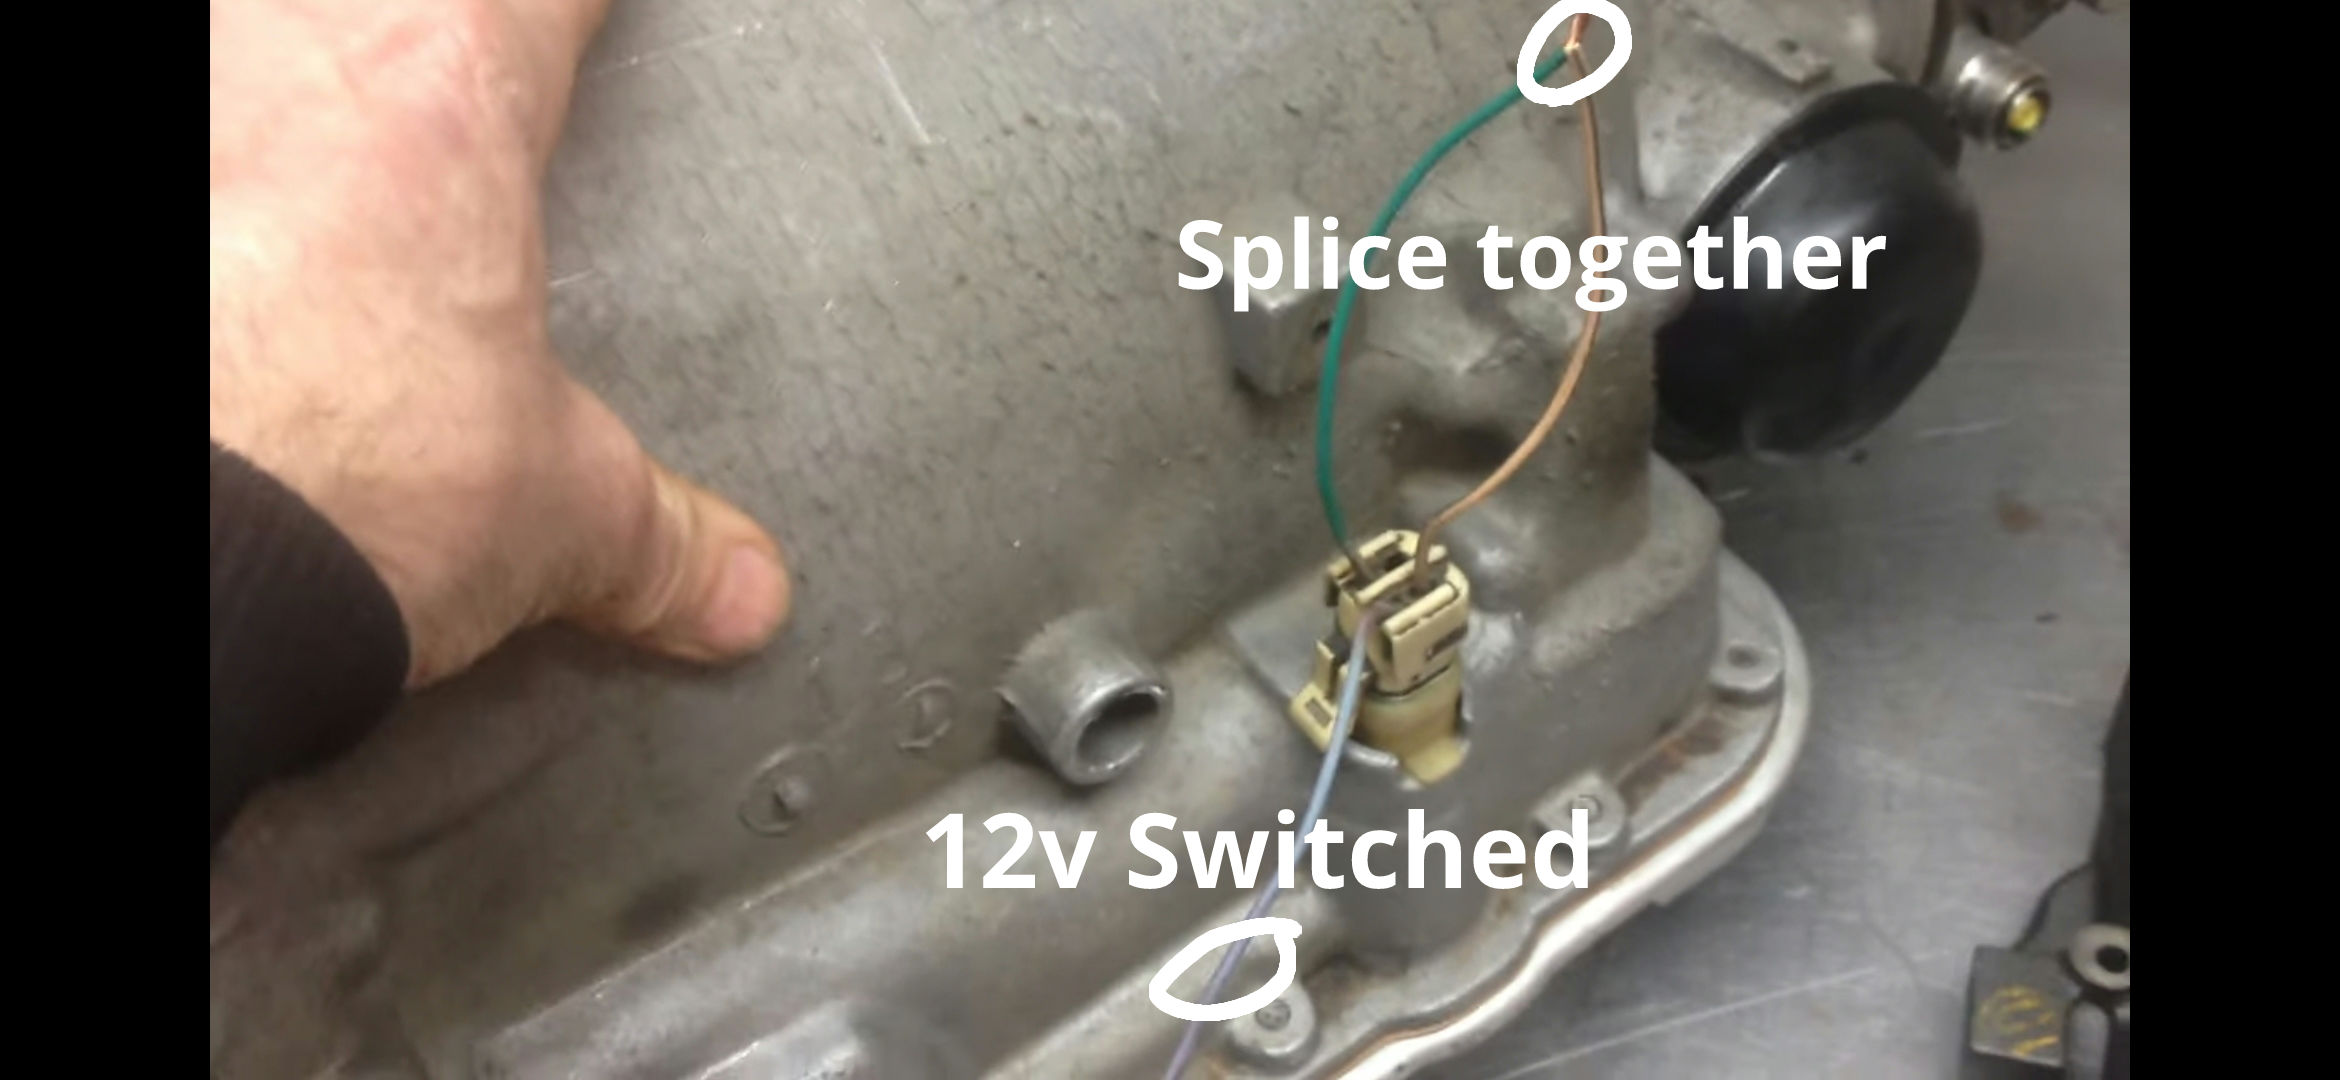
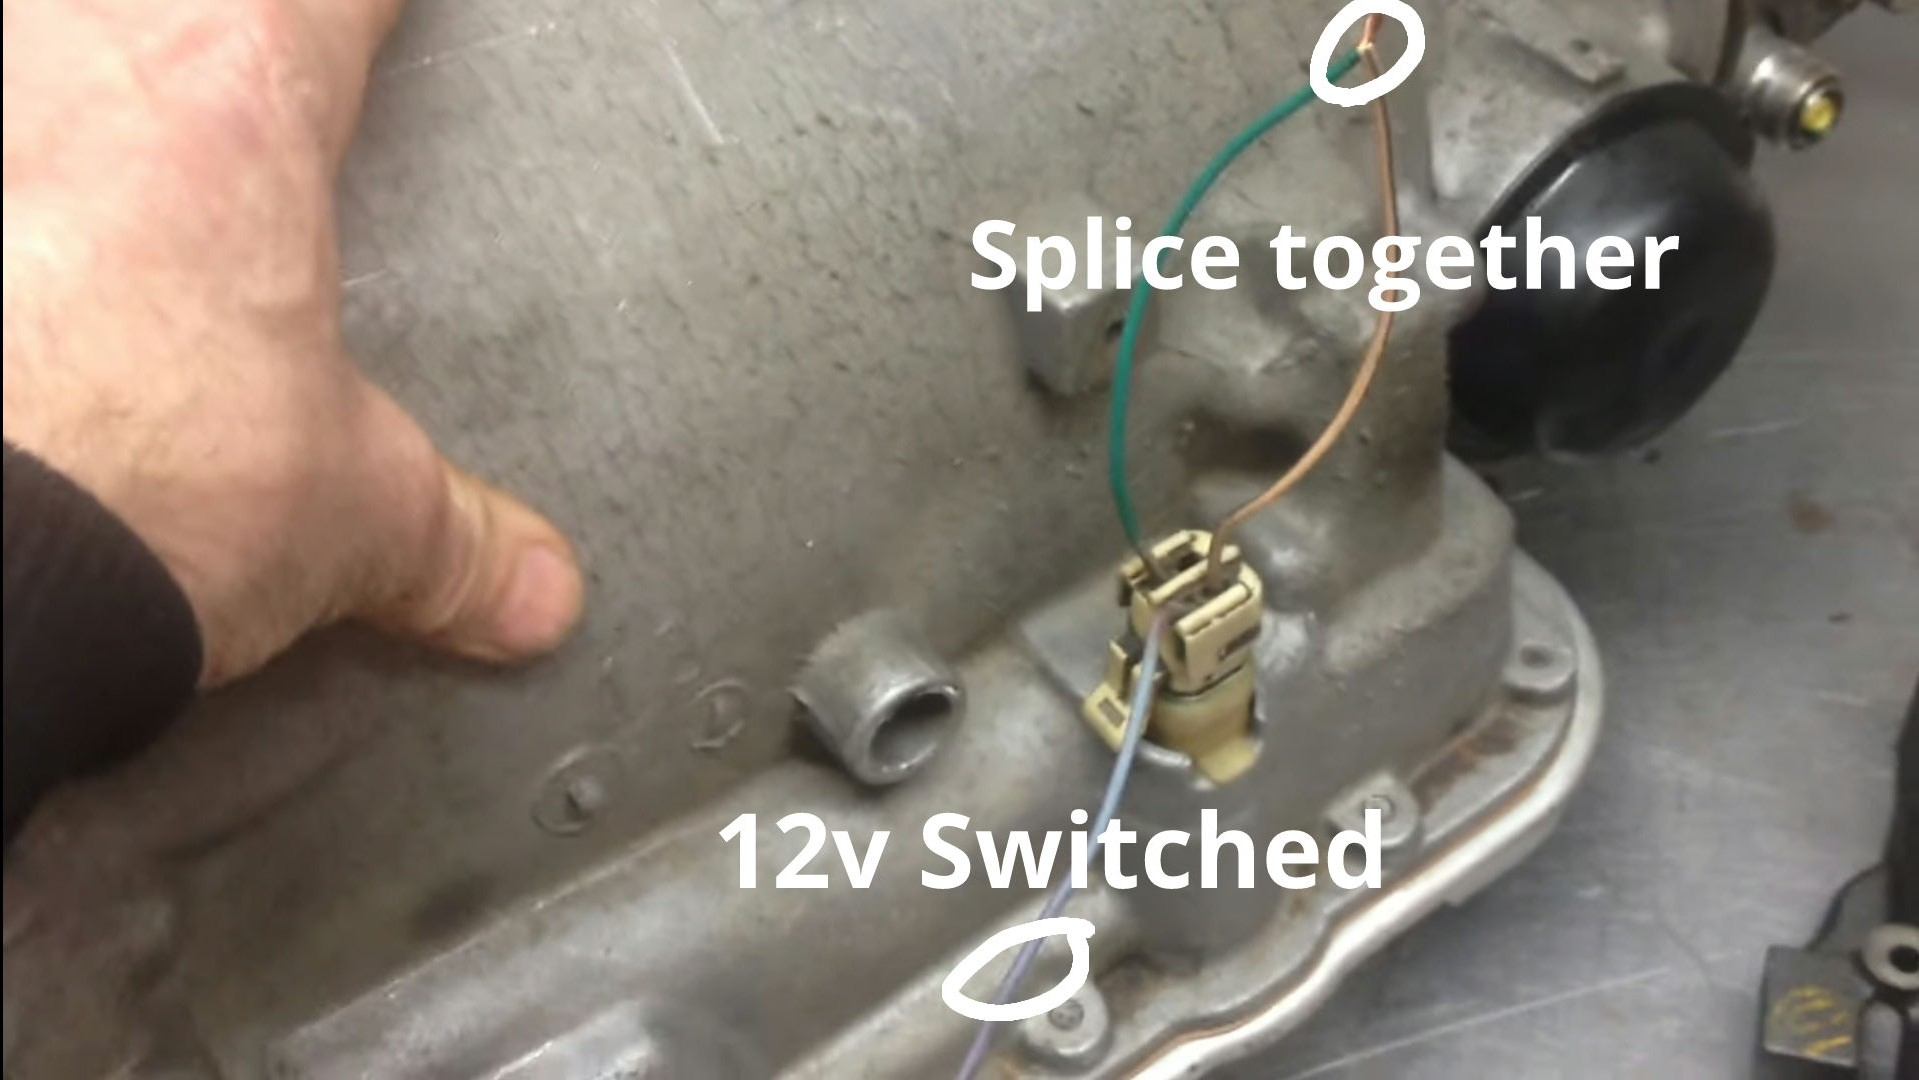
site update

diff --git a/_posts/2023-02-17-700r4-prep-and-install.md b/_posts/2023-02-17-700r4-prep-and-install.md
@@ -1,0 +1,40 @@
+---
+categories: ["Mechanical"]
+tags: [Transmission, 700R4, Driveshaft, Installation]
+title: "700R4: Preparation & Install"
+date: 2023-02-17 12:00:00 +0000
+---
+
+<div style="display: flex !important; flex-direction: column !important; width: 100% !important; flex-grow: 1 !important; margin: 1.5rem 0 !important;">
+  <img src="/assets/img/posts/700r4installed_230212/IMG_20230212_154803.jpg" alt="700R4 and B&M Converter" style="max-width: 90%; height: auto; border-radius: 8px; display: block; margin-left: auto !important; margin-right: auto !important;">
+  <p style="text-align: center; width: 100%; margin-top: 5px;"><em>The 700R4 fitted with the [B&M Tork Master 2000](/posts/the-handshake-installing-the-bm-tork-master-2000/).</em></p>
+</div>
+
+After pulling the [old TH350](/posts/th350-for-sale/), the first hurdle of the 700R4 swap was the physical length. The 700R4 case is longer, meaning the original crossmember position needed adjustment. I had to slide the crossmember back several inches on the frame rails to align with the new mount location at the tail of the 700R4. 
+
+<div style="display: flex !important; flex-direction: column !important; width: 100% !important; flex-grow: 1 !important; margin: 1.5rem 0 !important;">
+  <img src="/assets/img/posts/700r4installed_230212/IMG_20230221_120945.jpg" alt="Original driveshaft" style="max-width: 70%; height: auto; border-radius: 8px; display: block; margin-left: auto !important; margin-right: auto !important;">
+  <p style="text-align: center; width: 100%; margin-top: 5px;"><em>The original driveshaft, which is now roughly 3 inches too long.</em></p>
+</div>
+
+Because of that extra transmission length, the driveshaft had to be sent out to a local shop to be shortened and re-balanced. You cannot "eyeball" this; if the shaft is too long, it will bottom out in the transmission and destroy the thrust bearing in your engine.
+
+<div style="display: flex !important; flex-direction: column !important; width: 100% !important; flex-grow: 1 !important; margin: 1.5rem 0 !important;">
+  <img src="/assets/img/posts/700r4installed_230212/IMG_20230429_104845.jpg" alt="Shortened driveshaft installed" style="max-width: 70%; height: auto; border-radius: 8px; display: block; margin-left: auto !important; margin-right: auto !important;">
+  <p style="text-align: center; width: 100%; margin-top: 5px;"><em>Shortened and balanced. Final fitment looks solid with proper slip-yoke travel.</em></p>
+</div>
+
+<div style="display: flex !important; flex-direction: column !important; width: 100% !important; flex-grow: 1 !important; margin: 1.5rem 0 !important;">
+  <img src="/assets/img/posts/700r4installed_230212/700r4wiring.jpg" alt="700R4 lockup wiring" style="max-width: 70%; height: auto; border-radius: 8px; display: block; margin-left: auto !important; margin-right: auto !important;">
+  <p style="text-align: center; width: 100%; margin-top: 5px;"><em>Simplified 12v switched wiring for the internal lockup solenoid.</em></p>
+</div>
+
+The 12v wiring you see here manages the **Torque Converter Lockup**. Because this is a 1992 "late model" case, it features an internal **normally open 4th gear pressure switch**. By providing 12V to the pigtail and jumping the correct internal wires, the transmission will automatically lock the converter once hydraulic pressure confirms it is in 4th gear, and automatically unlock it the moment it downshifts out of 4th.
+
+This setup creates a hands-free highway cruise. I haven't added a manual toggle switch to the dash yet, but I may if I find the engine lugs too much when the lockup hits during lower speed 4th gear cruising.
+
+> **Pro-Tip:** The 700R4 does **not** use a vacuum modulator like the TH350. Instead, it uses a **TV (Throttle Valve) Cable**. This cable controls line pressure based on throttle position. If you don't adjust this perfectly, you will burn up the clutches in the transmission in less than five miles. It is the most critical adjustment in the entire swap.
+
+This swap brings a huge performance benefit to the Turbo 250 setup. The 700R4 has a much lower first gear (3.06:1) compared to the TH350 (2.52:1). This gives the Inline 6 a significant mechanical advantage off the line, helping the car get moving and building boost much faster. By the time you hit second gear, you're already in the meat of the power band.
+
+Everything is buttoned up and ready for me to figure out how much fluid the 700r4 came with.

diff --git a/_posts/2023-02-12-bm-torque-converter.md b/_posts/2023-02-12-bm-torque-converter.md
@@ -27,8 +27,3 @@ Before installation, I filled the converter with fluid as suggested. Dry starts 
 </div>
 
 The most critical part of this install is making sure the converter is fully seated on the 700R4 splines. If it’s not all the way in, you’ll destroy the transmission pump the second you bolt the bellhousing to the engine. I made sure it was seated deep before buttoning everything up to the 250's flexplate.
-
-<div style="display: flex !important; flex-direction: column !important; width: 100% !important; flex-grow: 1 !important; margin: 1.5rem 0 !important;">
-  <img src="/assets/img/posts/bmconverter_230212/IMG_20230217_163016.jpg" alt="Bolted to flexplate" style="max-width: 70%; height: auto; border-radius: 8px; display: block; margin-left: auto !important; margin-right: auto !important;">
-  <p style="text-align: center; width: 100%; margin-top: 5px;"><em>Bolted up and ready for the first test drive.</em></p>
-</div>
